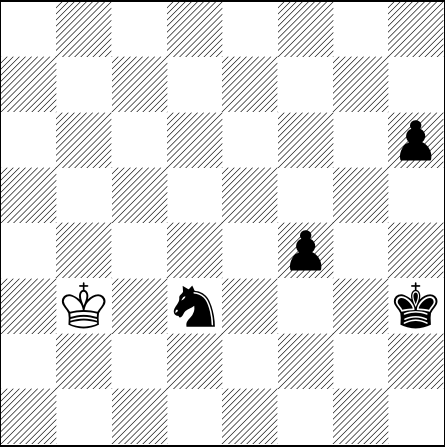
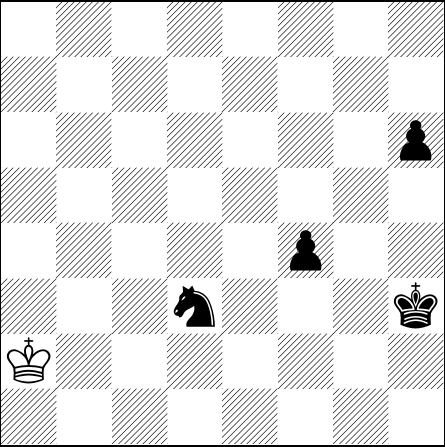
[automated] Regenerate text/pdf for chessboard

Changed region(s): [[0.1169, 0.6107, 0.2337, 0.7562], [0.0, 0.7562, 0.1169, 0.8725]]

diff --git a/default_filepath.tex b/default_filepath.tex
@@ -13,6 +13,6 @@
 \normalsize%
 \setchessboard{showmover=false}%
 \newgame%
-\fenboard{8/8/7p/8/5p2/1K1n3k/8/8 w - - 30 169}%
+\fenboard{8/8/7p/8/5p2/3n3k/K7/8 b - - 31 169}%
 \chessboard%
 \end{document}
